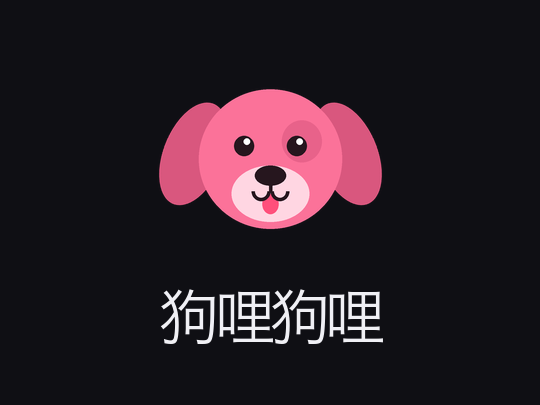
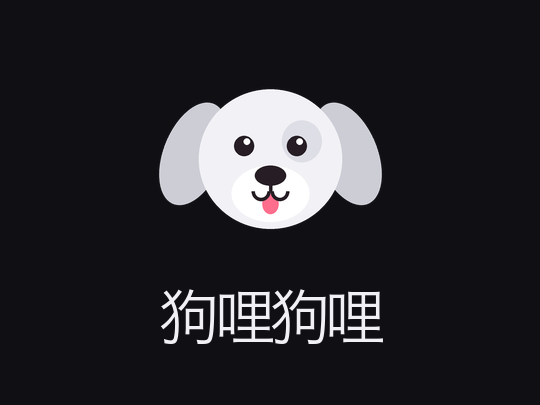
Theme colours, a settings tab and a white puppy
Accent colour is now a setting (yellow by default; pink, blue, green, purple),
applied live from a new 设置 tab that also holds the danmaku defaults. The
mascot is a white puppy so it suits every accent. Tabs that open their own
screen show a hint instead of a stale spinner.

Changed region(s): [[0.2963, 0.2074, 0.7111, 0.563]]

diff --git a/scripts/make-art.py b/scripts/make-art.py
@@ -7,14 +7,21 @@ from PIL import Image, ImageDraw, ImageFont
 
 OUT = Path(__file__).resolve().parent.parent / "channel" / "images"
 OUT.mkdir(parents=True, exist_ok=True)
-PINK = (251, 114, 153)
 BG = (15, 15, 20)
+# accent colours, keyed like themes() in channel/components/common/utils.brs; the first is the default
+THEMES = {
+    "yellow": (255, 201, 60),
+    "pink": (251, 114, 153),
+    "blue": (61, 139, 253),
+    "green": (52, 211, 153),
+    "purple": (155, 123, 255),
+}
 CJK = "/System/Library/Fonts/Hiragino Sans GB.ttc"
 
 
-# palettes for the mascot: the app's pink one, and a grey one for image placeholders
-DOG = {"head": PINK, "ear": (217, 87, 126), "patch": (232, 98, 138), "muzzle": (255, 214, 226),
-       "ink": (38, 22, 30), "tongue": (255, 79, 123), "shine": (255, 255, 255)}
+# palettes for the mascot: a white puppy (it sits beside any accent), and a grey one for placeholders
+DOG = {"head": (242, 242, 246), "ear": (205, 205, 214), "patch": (222, 222, 230), "muzzle": (255, 255, 255),
+       "ink": (38, 30, 36), "tongue": (255, 110, 140), "shine": (255, 255, 255)}
 DOG_GREY = {"head": (70, 70, 84), "ear": (58, 58, 70), "patch": (63, 63, 76), "muzzle": (88, 88, 102),
             "ink": (40, 40, 50), "tongue": (80, 80, 94), "shine": (100, 100, 114)}
 
@@ -101,8 +108,13 @@ def rounded(size, radius, fill=None, outline=None, width=0, scale=4):
     return img.resize(size, Image.LANCZOS)
 
 
-nine_patch(rounded((48, 48), 14, outline=PINK + (255,), width=5), (20, 28), (20, 28), "focus.9.png")
-nine_patch(rounded((56, 56), 28, fill=PINK + (255,)), (27, 29), (27, 29), "pill.9.png")
+for key, rgb in THEMES.items():
+    nine_patch(rounded((48, 48), 14, outline=rgb + (255,), width=5), (20, 28), (20, 28), f"focus_{key}.9.png")
+    nine_patch(rounded((56, 56), 28, fill=rgb + (255,)), (27, 29), (27, 29), f"pill_{key}.9.png")
+    nine_patch(rounded((28, 28), 10, fill=rgb + (255,)), (12, 16), (12, 16), f"chip_{key}.9.png")
+    spin = Image.new("RGBA", (256, 256), (0, 0, 0, 0))
+    ImageDraw.Draw(spin).arc([16, 16, 240, 240], 0, 270, fill=rgb + (255,), width=20)
+    spin.resize((64, 64), Image.LANCZOS).save(OUT / f"spinner_{key}.png")
 nine_patch(rounded((56, 56), 28, fill=(255, 255, 255, 34)), (27, 29), (27, 29), "pill_dim.9.png")
 nine_patch(rounded((32, 32), 8, fill=(0, 0, 0, 170)), (12, 20), (12, 20), "badge.9.png")
 nine_patch(rounded((40, 40), 12, fill=(28, 28, 36, 255)), (16, 24), (16, 24), "card.9.png")
@@ -117,9 +129,6 @@ logo = Image.new("RGBA", (96, 80), (0, 0, 0, 0))
 paste_centered(logo, dog(80), 48, 40)
 logo.save(OUT / "logo.png")
 
-spin = Image.new("RGBA", (256, 256), (0, 0, 0, 0))
-ImageDraw.Draw(spin).arc([16, 16, 240, 240], 0, 270, fill=PINK + (255,), width=20)
-spin.resize((64, 64), Image.LANCZOS).save(OUT / "spinner.png")
 
 # left-to-right scrim for the detail page backdrop, top scrim for the player HUD
 scrim = Image.new("RGBA", (480, 4), (0, 0, 0, 0))
@@ -138,4 +147,3 @@ bottom = top.transpose(Image.FLIP_TOP_BOTTOM)
 bottom.save(OUT / "scrim_bottom.png")
 print("ui chrome ->", OUT)
 
-nine_patch(rounded((28, 28), 10, fill=PINK + (255,)), (12, 16), (12, 16), "chip.9.png")

diff --git a/README.md b/README.md
@@ -2,7 +2,7 @@
 
 在 Roku 电视上看 B 站的客户端。**全部运行在电视上**，不需要电脑开着；电脑只在安装和更新时用一下。
 
-功能：首页（推荐 / 热门 / 排行 / 历史，带发布时间）、搜索（拼音联想）、详情页（分 P、相关推荐、断点续播）、播放器、弹幕（开关、不透明度）、扫码登录（登录后 1080P）、观看进度与 B 站账号双向同步、在电视上删除观看历史。
+功能：首页（推荐 / 热门 / 排行 / 历史，带发布时间）、搜索（拼音联想）、详情页（分 P、相关推荐、断点续播）、播放器、弹幕（开关、不透明度）、扫码登录（登录后 1080P）、观看进度与 B 站账号双向同步、在电视上删除观看历史、主题色可选（黄 / 粉 / 蓝 / 绿 / 紫）。
 
 > **非官方项目**，与哔哩哔哩（上海宽娱数码科技有限公司）没有任何关系。只调用 B 站网页版本来就开放的接口，用你自己的账号登录，仅供个人学习和自用。请遵守 B 站用户协议，不要用于商业用途。
 
@@ -24,7 +24,7 @@ scripts/deploy.sh
 
 | 位置 | 操作 |
 | --- | --- |
-| 首页标签栏 | 左右切换，下进入视频，OK 在「推荐」上换一批 |
+| 首页标签栏 | 左右切换，下进入视频，OK 在「推荐」上换一批；「设置」里改主题色和弹幕默认值 |
 | 首页视频 | 上 / 返回 回到标签栏，`*` 刷新；往下翻会自动加载更多（历史也是） |
 | 历史 | 在视频上按 `*`：从观看历史中删除，或清空全部（会再确认一次，默认选「取消」） |
 | 详情页 | 下 = 相关推荐，右 = 选集 |
@@ -55,6 +55,10 @@ scripts/cast.sh "https://www.bilibili.com/video/BV1GJ411x7h7"
 - **登录二维码**：`bili/qr.brs` 是电视上的二维码生成器。不能用网上的二维码服务——登录链接里带着 key，谁拿到谁就能拿到登录态。
 - **弹幕**：`widgets/DanmakuLayer` 用对象池 + SceneGraph 动画滚动（渲染线程负责移动），按视频时间放出、分轨道防重叠。
 - **中文字体**：Roku 系统字体没有中文，频道带了一个约 1 万字的子集字体（`channel/fonts/cjk.otf`），旁边的 `cjk.cov` 是字形覆盖表，标题里字体画不出的字符（emoji 等）会被去掉，免得显示成方块。字体是 Adobe 思源宋体的子集，按 SIL Open Font License 1.1 再分发，许可证见 [`channel/fonts/OFL.txt`](channel/fonts/OFL.txt)；因为改动过（子集化），按许可证要求改名为 "BiliTV CJK"。
+
+## 主题色和图标
+
+主题色在 `channel/components/common/utils.brs` 的 `themes()` 里定义，每种颜色对应一套焦点框、胶囊按钮、加载圈图片（`*_<主题>.9.png`），由 `scripts/make-art.py` 里的 `THEMES` 生成，两边要保持一致。默认是黄色。图标和启动画面是一只白色小狗，也由这个脚本画出来。
 
 ## 开发
 
